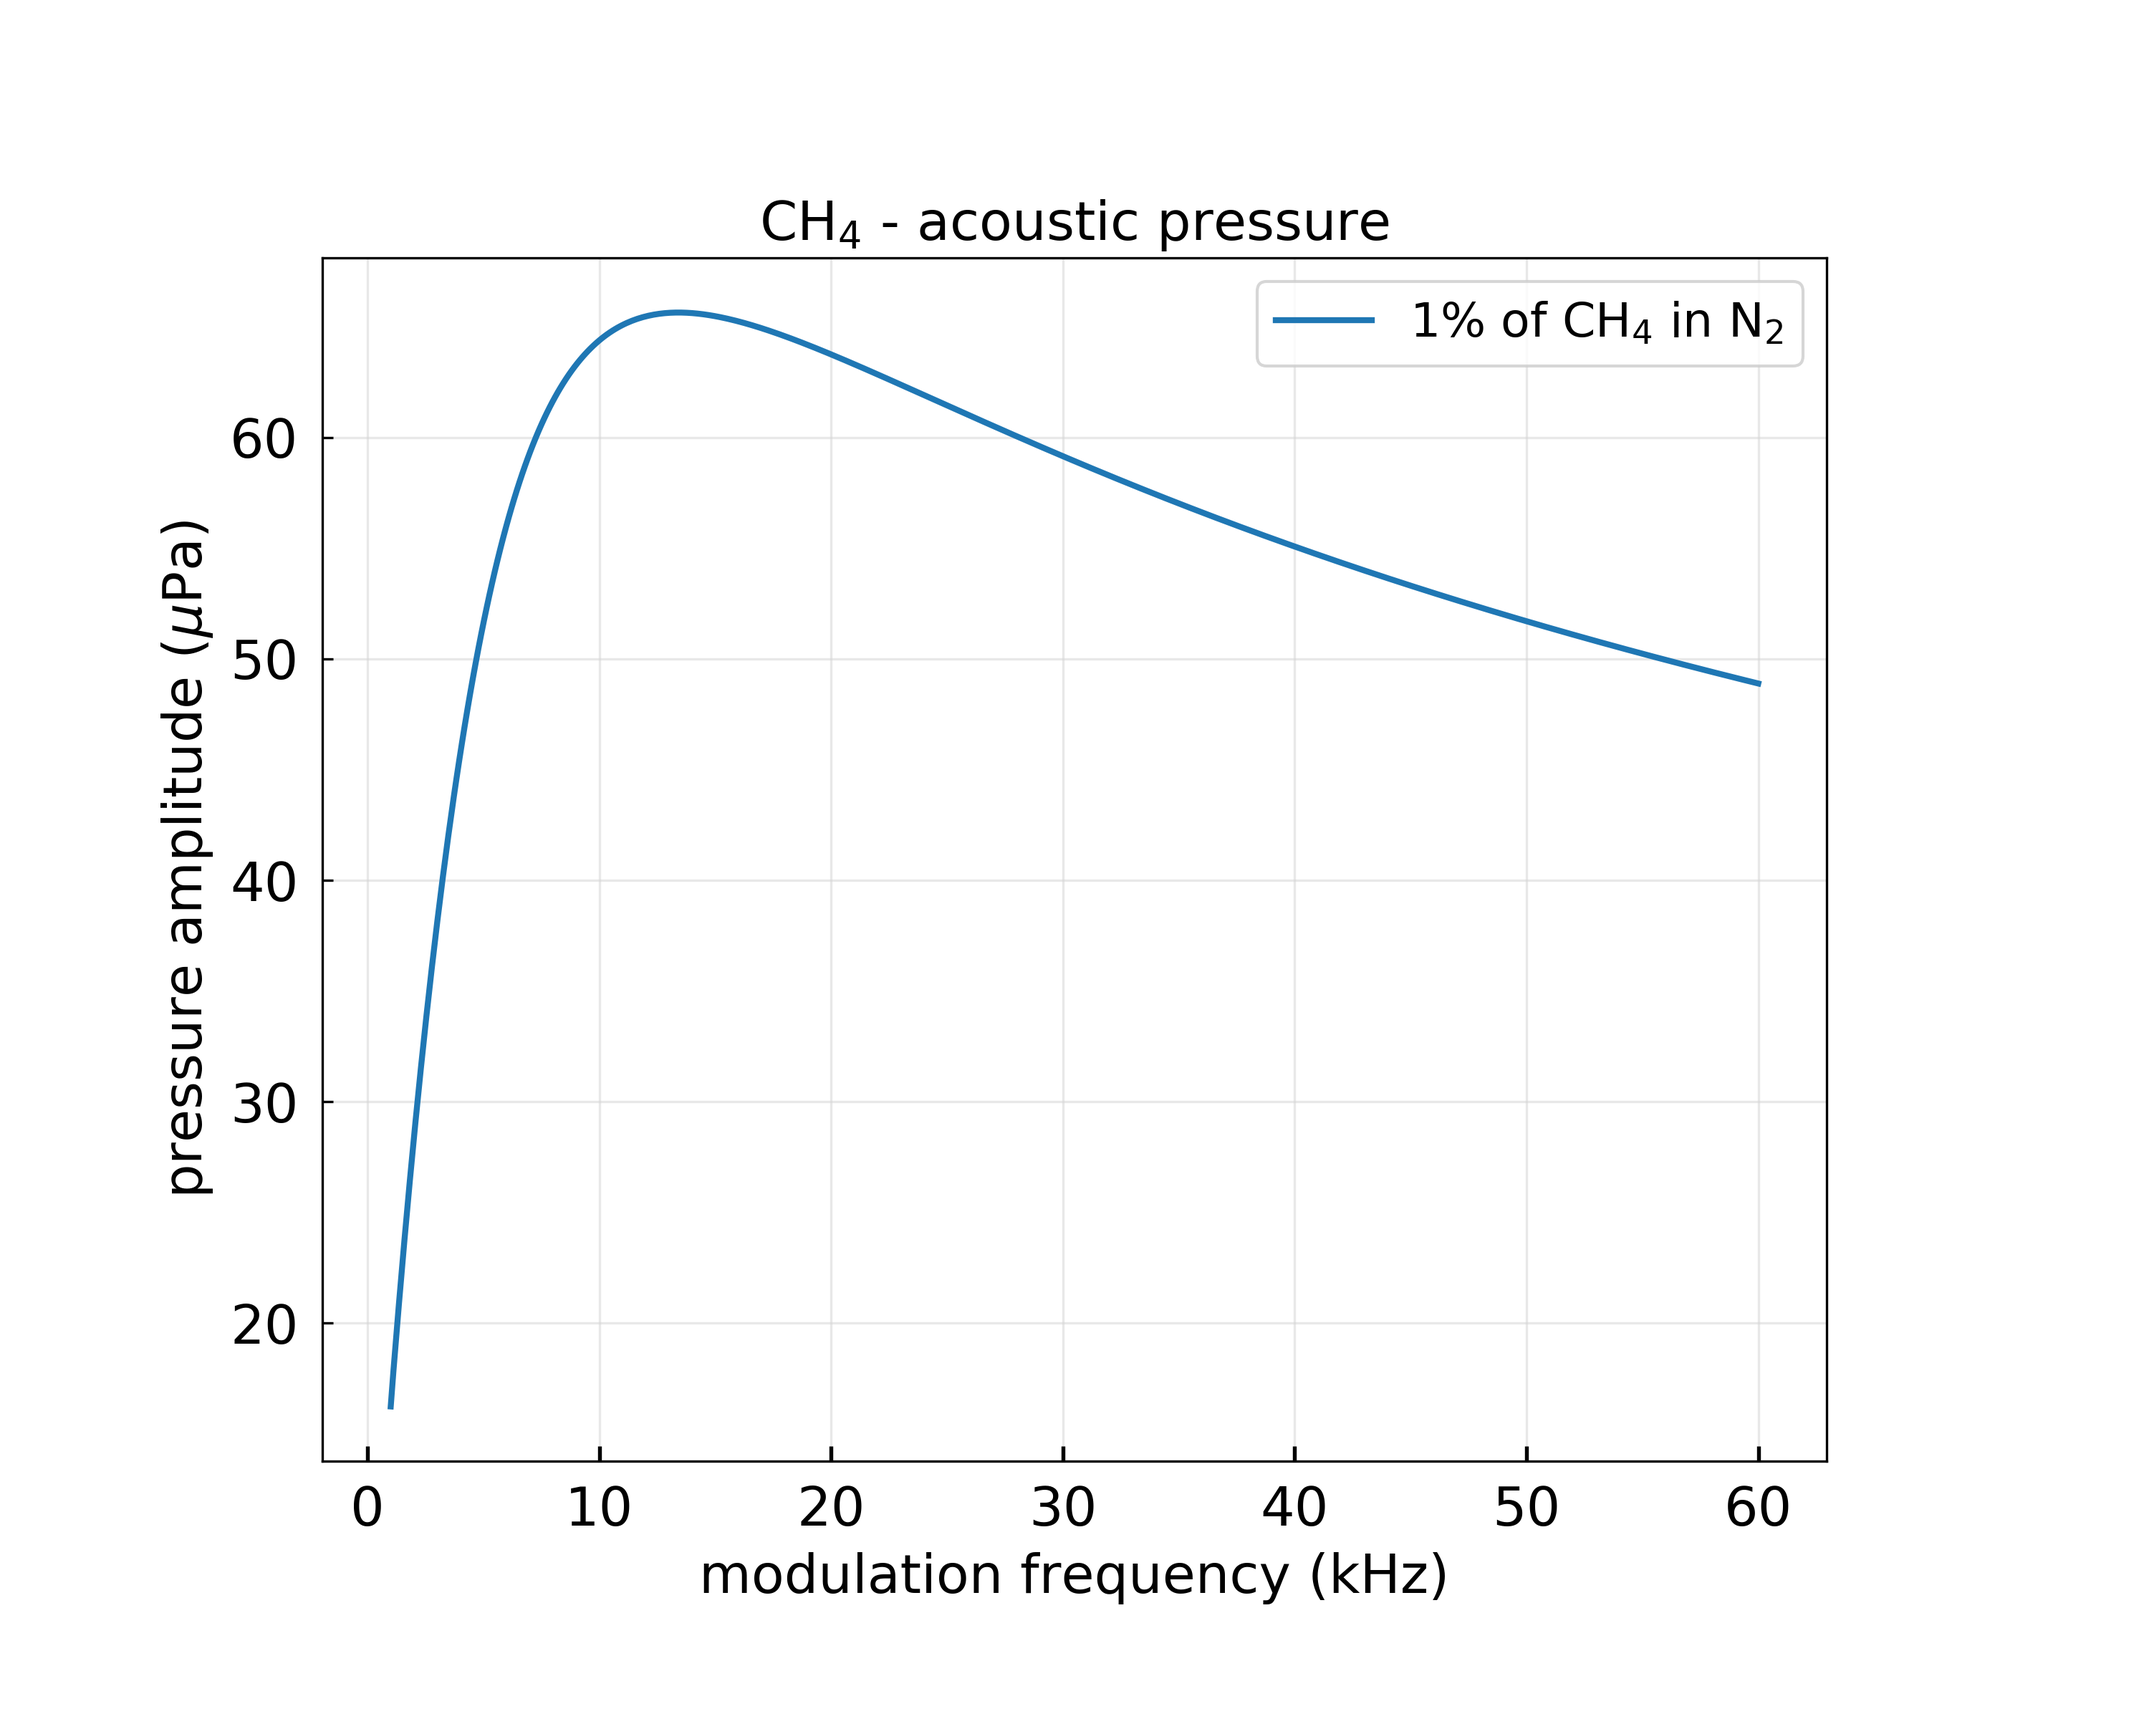
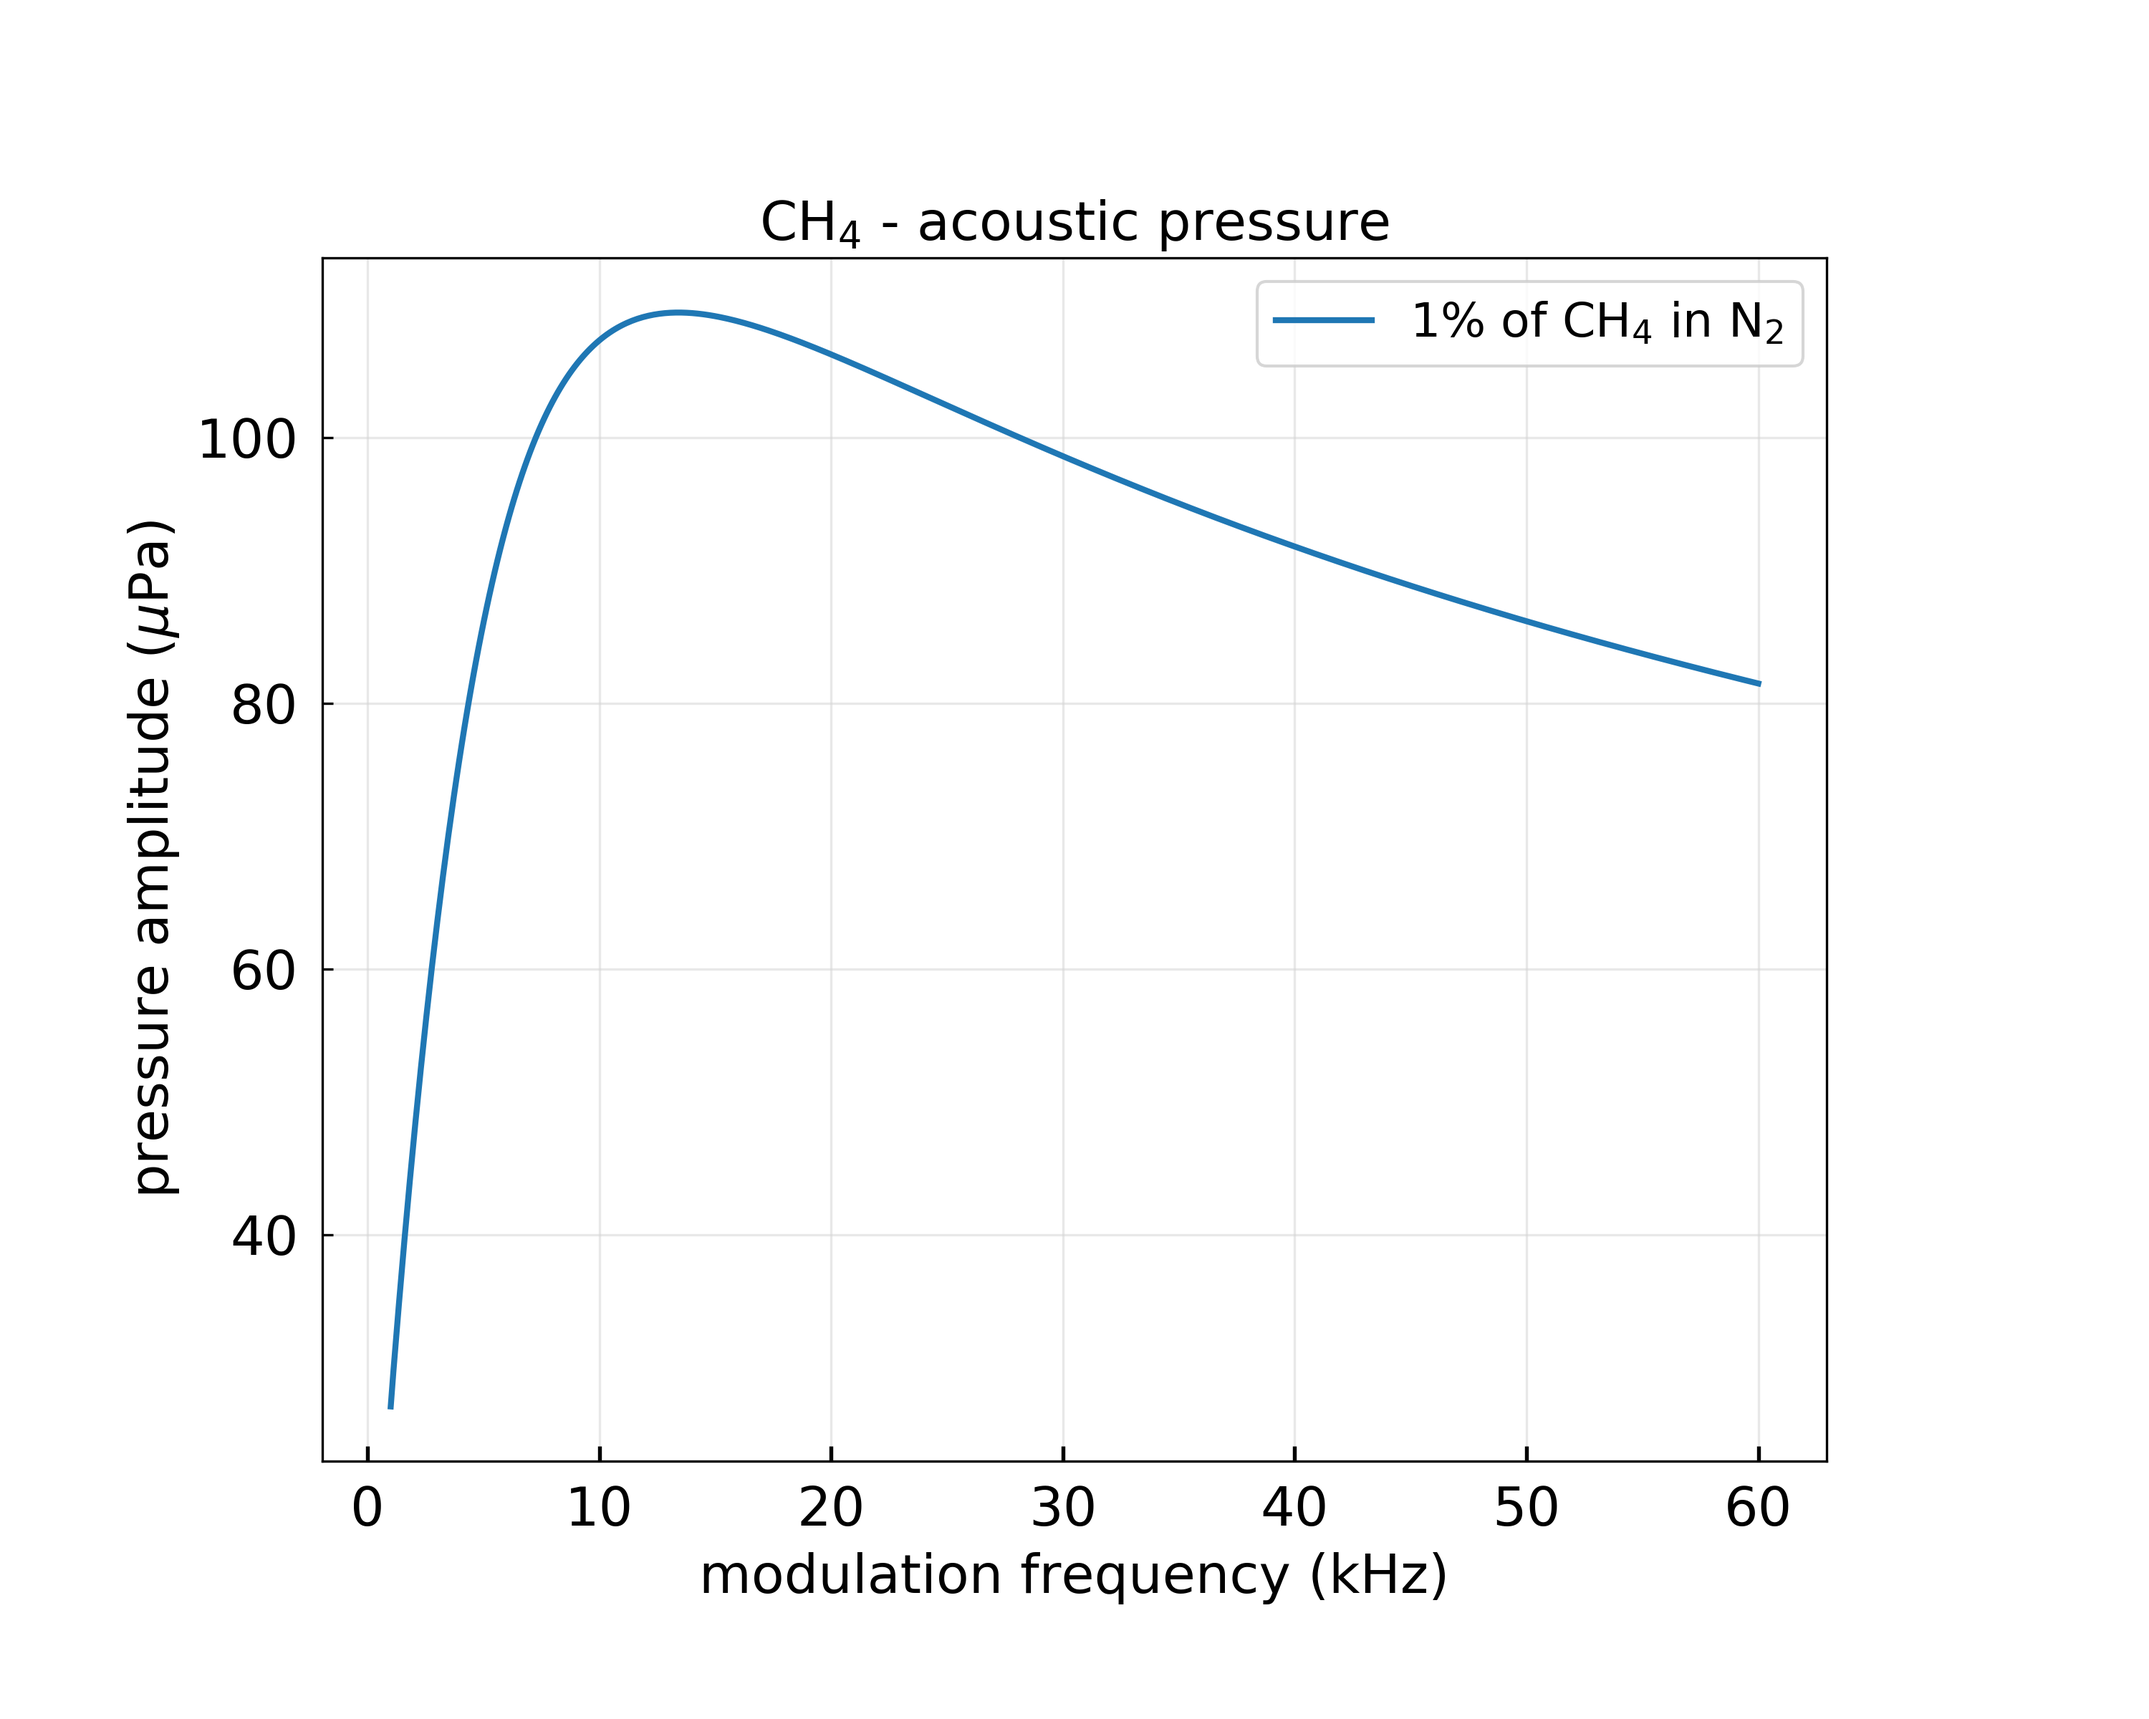
viscous damping

Changed region(s): [[0.062, 0.2812, 0.155, 0.7188], [0.093, 0.75, 0.155, 0.7812], [0.093, 0.25, 0.124, 0.2812]]

diff --git a/equation/equation.tex b/equation/equation.tex
@@ -1,0 +1,130 @@
+\documentclass[12pt]{article}
+
+\usepackage[utf8]{inputenc} % pour les accents 
+\usepackage{graphicx} %pour les graphiques
+ 
+\begin{document}
+\setlength{\parindent}{0pt}
+
+\section{Laser beam}
+
+normalized laser power density :
+$$g(x,y,z) = \frac{2}{\pi w_L(x)^2} \exp \left( -2 \frac{(z-z_L)^2+(y-y_L)^2}{w_L(x)^2}  \right)$$
+laser beam radius :
+$$w_L(x) = w_L(x_L) \sqrt{ \left( 1 + \frac{(x-x_L)^2}{x_R^2}  \right)}$$
+Rayleigh lengh :
+$$ x_R = \frac{\pi w_L(x_L)}{\lambda_L} $$
+
+\begin{tabular}{|p{2cm}||p{6cm}|p{1cm}|p{3cm}| }
+  \hline
+  \multicolumn{4}{|c|}{Parameters} \\
+  \hline
+  $\lambda_L$ & laser wavelength & $[m]$ & $1.65 \mu m$ \\
+  $w_L(x_L)$ & laser waist & $[m]$ & $100 \mu m$\\
+  $x_L, y_L, z_L$ & laser beam waist radius position & $[m]$ & $0.725L,0,150nm$\\
+  \hline
+\end{tabular}
+
+\newpage
+
+\section{Acoustic force}
+
+effectif absorption coefficient (for 2f-signal) :
+$$\alpha_{eff}=\frac{0.7}{2}\alpha$$
+heat production rate:
+$$H(x,y,z,t) = \frac{\alpha_{eff} P_L g(x,y,z)}{\sqrt{1+(\omega \tau)^2}} e^{i \omega t - \varphi}$$
+$$\left( \varphi = \arctan{(\omega \tau)} \right)$$
+acoustic wave equation :
+$$\frac{\partial^2 P(x,y,z,t)}{\partial t^2} - c_s^2 \Delta P(x,y,z,t) = (\gamma -1)\frac{\partial H(x,y,z,t)}{\partial t}$$
+acoustic pressure :
+$$P(x,y,z,t) = p(x,y,z)e^{i \omega t}$$
+$$ p(x,y,z) = - \frac{\pi A}{2c_s^2k^2}(Y_0(kr)+iJ_0(kr)) \int_0^{+\infty}uJ_0(u)\exp{\left(\frac{-2u^2}{k^2w_L(x)^2}\right)} \,du $$
+
+$$
+\left(
+\begin{array}{ccl}
+ r & = & \sqrt{(z-z_L)^2+(y-y_L)^2}  \\
+ k & = & \omega/c_s  \\
+ A & = & -(\gamma -1) \omega \frac{\alpha_{eff} P_L g(x,y,z)}{\sqrt{1+(\omega \tau)^2}} \frac{2}{\pi w_L(x)^2} \\
+\end{array}
+\right)
+$$ 
+
+cantilever mode shape :
+$$\phi_n(x) =  \cosh \left({\alpha_n\frac{x}{L}}\right) - \cos \left({\alpha_n\frac{x}{L}}\right) - \frac{\sinh{(\alpha_n)} - \sin{(\alpha_n)}}{\cosh{(\alpha_n)} + \cos{(\alpha_n)} }  \left(  \sinh \left({\alpha_n\frac{x}{L}}\right) - \sin \left({\alpha_n\frac{x}{L}}\right)  \right)$$
+$$( \textrm{for first harmonic } \alpha_1 = 1.875) $$
+
+acoustic force ($\phi(x)$ is normalized with $\phi_{MAX}(x)=1$) : 
+
+$$F_{PA} = \int \limits_0^L \int \limits_{-b/2}^{b/2} \left(  p(x,y,z)-p(x,y,z+h) \right) \phi_n(x) \,dx \,dy $$
+$$(\textrm{for first harmonic }  n=1)$$ 
+
+
+\begin{tabular}{|p{2cm}||p{6cm}|p{1cm}|p{3cm}| }
+  \hline
+  \multicolumn{4}{|c|}{Parameters} \\
+  \hline
+  $\alpha$ & absorption coeeficient & $[m^{-1}]$& CH$_4$ $0.38 m^{-1}$\\
+  $P_L$ & laser power & $[Js]$& $10mW$\\
+  $\omega$ & mechanical resonance pulsation & $[s^{-1}]$&\\
+  $\tau$ & target gas relaxation time & $[s]$& CH$_4$ $21\mu s$\\
+  $c_s$ & speed of sound & $[m/s]$& Air $347.276 m/s$\\
+  $\gamma$ & heat ratio capacity & & Air $1.4$\\  
+  $J_0,$ & zeroth-order Bessel functions of the first kinds & & \\  
+  $Y_0$ & zeroth-order Bessel functions of the second kinds & & \\ 
+  $L,b,h$ & cantilever length, width and thickness & $[m]$ &\\  
+  \hline
+\end{tabular}
+
+\newpage
+
+\section{Damping}
+quality factor
+$$\frac {1}{Q_{tot}} =  \frac {1}{Q_{viscous}} + \frac {1}{Q_{thermo}}  + \frac {1}{Q_{support}} +  \frac {1}{Q_{acoustic}}$$
+\subsection{viscous damping}
+
+quality factor :
+$$ Q_{viscous}=\frac{\frac{4\rho_bh}{\pi \rho_fb}+\Gamma_{hydro}^R(\omega)}{\Gamma_{hydro}^I(\omega)}$$
+
+Reynolds number :
+$$R_e=\frac{\rho_f \omega b^2}{4\mu_f}$$
+
+
+hydrodynamic function :
+$$ \Gamma_{hydro}=\frac{1}{2} \Gamma_{fb}+\frac{1}{2} \Gamma_{fb}+\Gamma_{sq}+\frac{1}{2} \Gamma_{ud}+\frac{1}{2} \Gamma_{ud}$$
+
+front and back hydrodynamic function :
+$$ \Gamma_{fb}(\omega)=  \left(1+ \frac{4iK_1(-i\sqrt{iR_e})}{\sqrt{iR_e}K_0(-i\sqrt{iR_e})}  \right)\Omega_{sader}(\omega) $$
+
+up and down hydrodynamic function :
+$$ \Gamma_{ud}(\omega) = \frac{2\sqrt{2}h}{\pi b \sqrt{R_e}}(1+i)$$
+
+squeeze film hydrodynamic function :
+$$ \Gamma_{sq}(\omega) = \frac{-4P_a}{\pi d b \rho_f \omega^2} (f_e(\sigma)-if_d(\sigma))$$
+
+$$
+\left(
+\begin{array}{ccl}
+\sigma & = & \frac{12\mu_f\omega b^2}{P_a d^2}  \\
+f_e(\sigma) & = & 1 - \sqrt{\frac{2}{\sigma}}\frac{\sinh \left( \sqrt{\frac{\sigma}{2}} \right) + \sin \left( \sqrt{\frac{\sigma}{2}} \right)}{\cosh \left( \sqrt{\frac{\sigma}{2}} \right) + \cos \left( \sqrt{\frac{\sigma}{2}} \right)}\\
+f_d(\sigma) & = &  \sqrt{\frac{2}{\sigma}}\frac{\sinh \left( \sqrt{\frac{\sigma}{2}} \right) - \sin \left( \sqrt{\frac{\sigma}{2}} \right)}{\cosh \left( \sqrt{\frac{\sigma}{2}} \right) - \cos \left( \sqrt{\frac{\sigma}{2}} \right)}\\
+\end{array}
+\right)
+$$ 
+
+
+\begin{tabular}{|p{1.5cm}||p{6cm}|p{1.5cm}|p{4cm}| }
+  \hline
+  \multicolumn{4}{|c|}{Parameters} \\
+  \hline
+  $\rho_b$ & mechanical resonator density & $[kg/m^{3}]$&Si $2330 kg/m^3$\\
+  $\rho_f$ & fluid density & $[kg/m^{3}]$& Air $1.177 kg/m^3$\\
+  $ \mu_f$ & fluid dynamic viscosity & $[kg/m/s]$&Air $1.85 \times 10^{-5} kg/m/s$\\
+  $ \Omega_{sader}$ & Sader coefficient &  & \\
+  $ K_0,K_1$ & modified Bessel functions of the second kind & & \\
+  $ d $ & air gap & $[m]$ & \\
+   $ P_a $ & pressure & $[Pa]$ & $101325 Pa$ \\
+  \hline
+\end{tabular}
+
+ \end{document}

diff --git a/31-viscous_damping.py b/31-viscous_damping.py
@@ -1,0 +1,156 @@
+# plot a 2D graph for viscous damping 
+# 2020-03-13 - First Version
+# 2020-03-27 - Add Q_acoustic
+# 2020-06-10 - update for paper
+
+import matplotlib.pyplot as plt
+import matplotlib as mpl
+from matplotlib import ticker
+import numpy as np
+import time
+import sys
+import os
+# liste des repertoires ou se trouvent les fichiers
+path = os.getcwd()
+titre = sys.argv[0].replace('PV2I-',"").replace(".py","").replace(path+"/","")
+print ("file name :",titre)
+
+from fluid_material import fluid_material as fm
+from geometry import cantilever as ct
+from geometry import quartz_tuning_fork as qtf
+
+#################################################
+###   PARAMs                   
+#################################################
+start = time.time()
+
+Air = fm.Fluid(name='air')
+Si110 = fm.Material(name='silicon_100')
+
+Width = np.linspace(1e-6,60e-6,200) #[m]
+Thickness = np.linspace(1e-7,100e-6,200) #[m]
+Gap = 4e-6 #[m]
+Freq = 15e3 #[Hz]
+
+W, T = np.meshgrid(Width, Thickness)
+
+data = {'Qvis_sq':np.zeros((np.size(W,0),np.size(W,1))), 
+        'Qsup':np.zeros((np.size(W,0),np.size(W,1))), 
+        'Qted':np.zeros((np.size(W,0),np.size(W,1))), 
+        'Qaco':np.zeros((np.size(W,0),np.size(W,1))), 
+        'Qtot':np.zeros((np.size(W,0),np.size(W,1))), 
+        'Length':np.zeros((np.size(W,0),np.size(W,1))),
+        'Freq':np.zeros((np.size(W,0),np.size(W,1))), 
+        'Surface':np.zeros((np.size(W,0),np.size(W,1))), 
+        'Mass_eff':np.zeros((np.size(W,0),np.size(W,1))), 
+        'Xi':np.zeros((np.size(W,0),np.size(W,1))), 
+        'XiS':np.zeros((np.size(W,0),np.size(W,1)))}
+
+#################################################
+###   FUNCTIONs                   
+#################################################
+
+def Compute_cant(w,t):
+    # w the width
+    # t the thickness
+    dico = {}
+    Cant = ct.Cantilever(material=Si110,fluid=Air,dico={'name':'cant',
+            'length':None,
+            'width':w,
+            'thickness':t,
+            'gap':Gap,
+            'freq':Freq,
+            'Qvac':None})
+    Cant.length_unkonw()
+    dico['Qvis_sq'] = Cant.Q_viscous_sq()
+    # dico['Qsup'] = Cant.Q_support()
+    # dico['Qted'] = Cant.Q_thermoelastic()
+    # dico['Qaco'] = Cant.Q_acoustic()
+    # Cant.Qtot = (1/dico['Qvis_sq'] + 1/dico['Qsup'] + 1/dico['Qted'] + 1/dico['Qaco'])**(-1)
+    # dico['Qtot'] = Cant.Qtot
+    # dico['Length'] = Cant.length
+    # dico['Freq'] = Cant.f0()
+    # dico['Surface'] = Cant.surface()
+    # dico['Mass_eff'] = Cant.effective_mass()
+    # dico['Xi'] = Cant.Xi0()
+    # dico['XiS'] = dico['Xi']*dico['Surface']
+    return dico
+
+
+for i in range(0,np.size(W,0)):
+    for j in range(0,np.size(W,1)):
+        results = Compute_cant(W[i][j],T[i][j])
+        for k in results:
+            data[k][i][j] = [results[k]][0]
+
+end = time.time()
+print('TIMER :')
+info_time = 'exec_time=%.0fs =%.0fmin'%((end-start),(end-start)/60)
+print(info_time) 
+
+
+#################################################
+###   PLOT DATA                               
+#################################################
+
+# MATPLOTLIB PARAMETERS
+mpl.rcParams.update(mpl.rcParamsDefault)
+# mpl.rcParamsDefault.keys --> display all parameters available
+params = {'legend.fontsize': 16,
+          'figure.figsize': (10, 8),
+          'axes.labelsize': 18,
+          'axes.titlesize': 18,
+          'xtick.labelsize': 18,
+          'ytick.labelsize': 18,
+          'figure.subplot.left': 0.15,
+          'figure.subplot.right': 0.85,
+          'figure.subplot.bottom': 0.15,
+          'figure.subplot.top': 0.85,
+          'xtick.direction': 'in',
+          'ytick.direction': 'in',
+          'xtick.major.size': 5,
+          'xtick.major.width': 1.3,
+          'xtick.minor.size': 3,
+          'xtick.minor.width': 1,
+          'xtick.major.pad': 8,
+          'ytick.major.pad': 8,
+          'lines.linewidth': 1,
+          'axes.grid': 'True',
+          'grid.alpha': 0.5,
+          'grid.color': '111111',
+          'grid.linestyle': '--',
+          'savefig.dpi': 300, }
+
+mpl.rcParams.update(params)
+
+
+cmap = 'Purples'
+
+nbr_lvl = 25 # nrb of level for le colorbar
+
+gridsize = (1, 1)
+fig, _ = plt.subplots()
+
+ax1 = plt.subplot2grid(gridsize, (0, 0), colspan=1, rowspan=1)
+cs1 = ax1.contourf(T*1e6, W*1e6, data['Qvis_sq'], cmap=cmap, levels = nbr_lvl)
+ax1.contour(cs1, colors='k')
+ax1.set_title(r'viscous quality factor with $\omega$ = %.1f kHz'%(Freq*1e-3))
+ax1.set_ylabel('width (um)', labelpad=0)
+ax1.set_xlabel('thickness (um)', labelpad=0)
+# ax1.grid(c='k', ls='-', alpha=0.3)
+# ax1.set_xscale('log')
+# ax1.set_yscale('log')
+# ax1.tick_params(axis='both', which='major', labelsize=20)
+# ax1.tick_params(axis='both', which='minor', labelsize=18)
+
+#plt.colorbar(cs1, ax=ax1)
+# increase color bat font size
+cb = plt.colorbar(cs1, ax=ax1) # grab the Colorbar instance
+for t in cb.ax.get_yticklabels():
+     t.set_fontsize(18)
+
+
+# save figure
+fig.savefig(titre+'.png')
+
+plt.show()

diff --git a/2-acoustice_force.py b/2-acoustice_force.py
@@ -80,7 +80,7 @@ zL = 150e-6 # [m]
 # Acoustic pressure with values from [1]
 AcPress = ap.AcousticPressure(fluid=Air,target_gas=Ch4,
         laser={'freq_mod':Cant.freq,
-            'laser_power':6e-3,
+            'laser_power':10e-3,
             'wavelength':1.65e-6,
             'waist':100e-6,
             'Rayleigh_length':None})
@@ -136,14 +136,10 @@ for i in range(0,np.size(width_grid,0)):
         data_save['thickness [m]'].append(thickness)
         data_save['force [N]'].append(force)
 
-
-
 end = time.time()
 print('TIMER :')
-info_time = 'exec_time=%.0fs'%((end-start))
-print('exec_time=%.0fs'%((end-start))) 
-
-
+info_time = 'exec_time=%.0fs =%.0fmin'%((end-start),(end-start)/60)
+print(info_time) 
 
 
 #################################################

diff --git a/1-relaxation.py b/1-relaxation.py
@@ -32,7 +32,7 @@ Ch4.info()
 
 AcPress = ap.AcousticPressure(fluid=Air,target_gas=Ch4,
         laser={'freq_mod':None,
-            'laser_power':6e-3,
+            'laser_power':10e-3,
             'wavelength':1.65e-6,
             'waist':100e-6,
             'Rayleigh_length':None})
